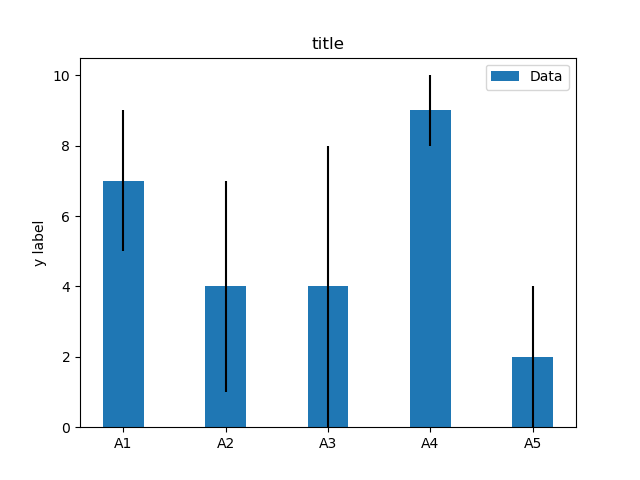
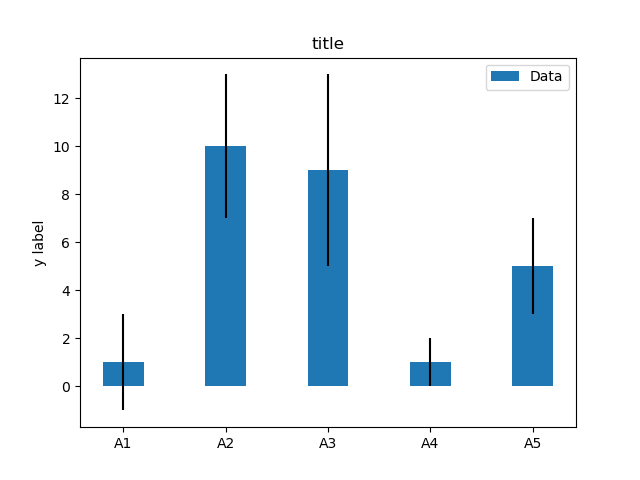
first commit

diff --git a/example.py b/example.py
@@ -2,7 +2,7 @@ import numpy as np
 import matplotlib.pyplot as plt
 
 labels = ['A1', 'A2', 'A3', 'A4', 'A5']
-m_means = [7,4,4,9,2]
+m_means = [1,10,9,1,5]
 m_std = [2, 3, 4, 1, 2]
 width = 0.40       # the width of the bars
 

diff --git a/README.md b/README.md
@@ -1,4 +1,4 @@
-# Matplotlib no 45 
+# Matplotlib no 46 
 
 python example
 
